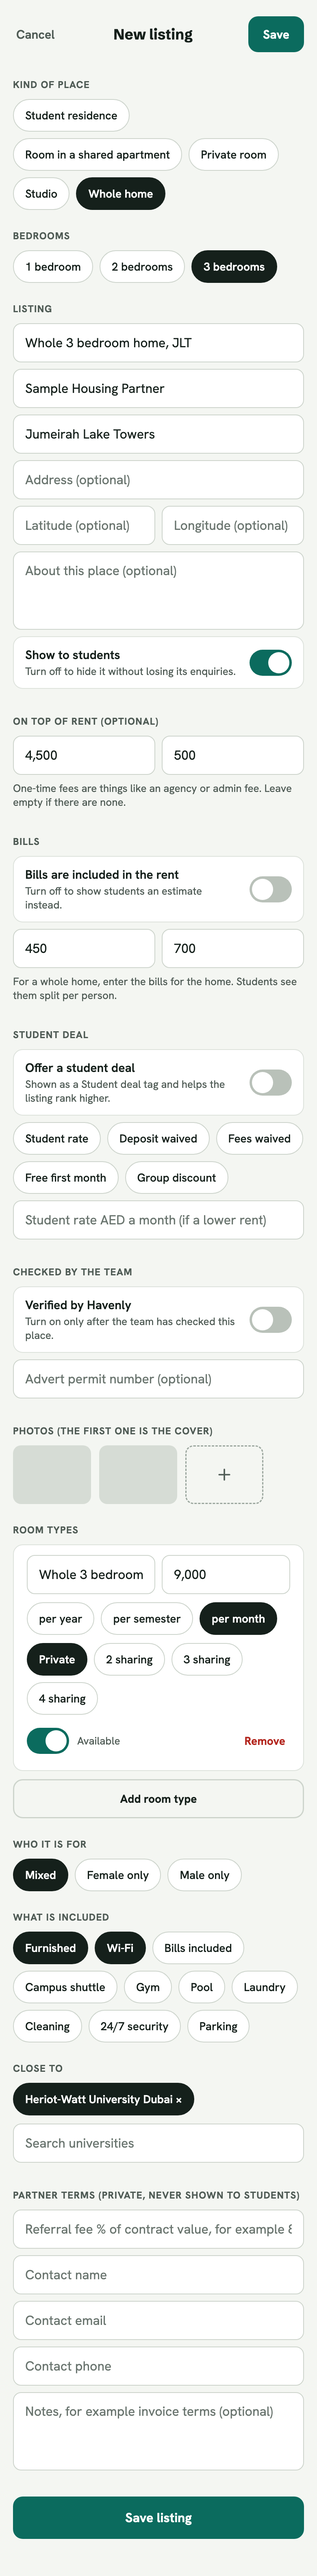
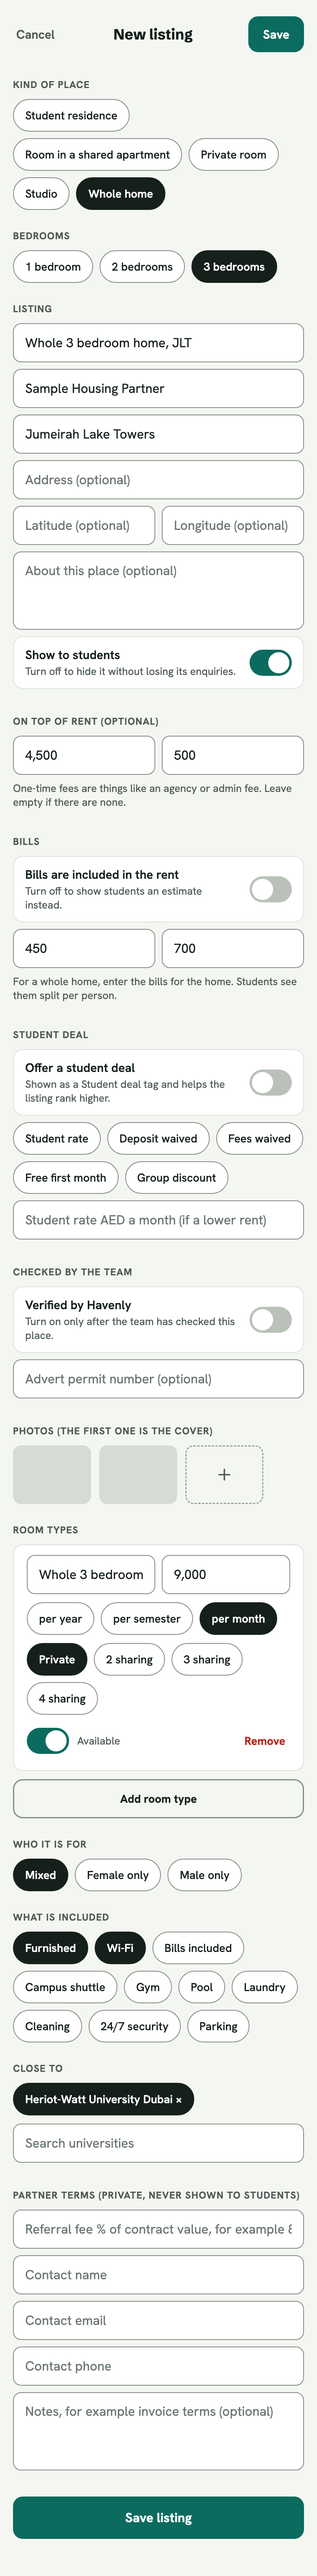
fix: darken field and chip borders so controls meet 3:1 contrast

diff --git a/design/handoff/Housing.dc.html b/design/handoff/Housing.dc.html
@@ -29,21 +29,21 @@ a{color:inherit}
     <div style="position: relative">
       <label for="q" style="position: absolute; width: 1px; height: 1px; overflow: hidden; clip: rect(0 0 0 0)">Search a university or an area</label>
       <svg width="20" height="20" viewBox="0 0 24 24" fill="none" stroke="#59655F" stroke-width="2" stroke-linecap="round" stroke-linejoin="round" aria-hidden="true" style="position: absolute; left: 16px; top: 16px"><circle cx="11" cy="11" r="7"/><path d="m20 20-3.5-3.5"/></svg>
-      <input id="q" type="text" value="Heriot-Watt University Dubai" style="width: 100%; box-sizing: border-box; height: 52px; border: 1px solid #CDD4CC; border-radius: 12px; background: #FFFFFF; padding: 0 16px 0 46px; font-family: inherit; font-size: 16px; color: #15201B">
+      <input id="q" type="text" value="Heriot-Watt University Dubai" style="width: 100%; box-sizing: border-box; height: 52px; border: 1px solid #848E87; border-radius: 12px; background: #FFFFFF; padding: 0 16px 0 46px; font-family: inherit; font-size: 16px; color: #15201B">
     </div>
   </div>
 
   <div style="flex: none; display: flex; gap: 8px; padding: 14px 16px 4px; overflow-x: auto; white-space: nowrap">
-    <button type="button" style="flex: none; height: 40px; padding: 0 14px; border-radius: 999px; border: 1px solid #CDD4CC; background: #FFFFFF; color: #15201B; font-size: 14px; font-weight: 600; display: inline-flex; align-items: center; gap: 6px">
+    <button type="button" style="flex: none; height: 40px; padding: 0 14px; border-radius: 999px; border: 1px solid #848E87; background: #FFFFFF; color: #15201B; font-size: 14px; font-weight: 600; display: inline-flex; align-items: center; gap: 6px">
       <svg width="15" height="15" viewBox="0 0 24 24" fill="none" stroke="currentColor" stroke-width="2.4" stroke-linecap="round" stroke-linejoin="round" aria-hidden="true"><path d="M12 3l7 3v5c0 4.5-3 8-7 10-4-2-7-5.5-7-10V6z"/><path d="m9 12 2 2 4-4"/></svg>
       Verified by Havenly
     </button>
     <button type="button" style="flex: none; height: 40px; padding: 0 14px; border-radius: 999px; border: 1px solid #0B6B5E; background: #0B6B5E; color: #FFFFFF; font-size: 14px; font-weight: 600">Up to AED 3,500</button>
     <button type="button" style="flex: none; height: 40px; padding: 0 14px; border-radius: 999px; border: 1px solid #0B6B5E; background: #0B6B5E; color: #FFFFFF; font-size: 14px; font-weight: 600">Bills included</button>
-    <button type="button" style="flex: none; height: 40px; padding: 0 14px; border-radius: 999px; border: 1px solid #CDD4CC; background: #FFFFFF; color: #15201B; font-size: 14px; font-weight: 500">Kind of place</button>
-    <button type="button" style="flex: none; height: 40px; padding: 0 14px; border-radius: 999px; border: 1px solid #CDD4CC; background: #FFFFFF; color: #15201B; font-size: 14px; font-weight: 500">Bedrooms</button>
-    <button type="button" style="flex: none; height: 40px; padding: 0 14px; border-radius: 999px; border: 1px solid #CDD4CC; background: #FFFFFF; color: #15201B; font-size: 14px; font-weight: 500">Student deal</button>
-    <button type="button" style="flex: none; height: 40px; padding: 0 14px; border-radius: 999px; border: 1px solid #CDD4CC; background: #FFFFFF; color: #15201B; font-size: 14px; font-weight: 500">Who it is for</button>
+    <button type="button" style="flex: none; height: 40px; padding: 0 14px; border-radius: 999px; border: 1px solid #848E87; background: #FFFFFF; color: #15201B; font-size: 14px; font-weight: 500">Kind of place</button>
+    <button type="button" style="flex: none; height: 40px; padding: 0 14px; border-radius: 999px; border: 1px solid #848E87; background: #FFFFFF; color: #15201B; font-size: 14px; font-weight: 500">Bedrooms</button>
+    <button type="button" style="flex: none; height: 40px; padding: 0 14px; border-radius: 999px; border: 1px solid #848E87; background: #FFFFFF; color: #15201B; font-size: 14px; font-weight: 500">Student deal</button>
+    <button type="button" style="flex: none; height: 40px; padding: 0 14px; border-radius: 999px; border: 1px solid #848E87; background: #FFFFFF; color: #15201B; font-size: 14px; font-weight: 500">Who it is for</button>
   </div>
 
   <div style="display: flex; align-items: baseline; justify-content: space-between; padding: 14px 16px 10px">

diff --git a/design/handoff/States.dc.html b/design/handoff/States.dc.html
@@ -16,16 +16,16 @@ button:focus-visible,input:focus-visible{outline:2px solid #0B6B5E;outline-offse
 h2{margin:0;font-family:'Schibsted Grotesk',sans-serif;font-weight:700;font-size:22px;letter-spacing:-0.01em}
 .grid{display:grid;grid-template-columns:repeat(3,390px);gap:12px 60px;align-items:stretch}
 .cap{font-size:12px;font-weight:700;letter-spacing:0.06em;text-transform:uppercase;color:#4F5B55;margin-bottom:6px}
-.p{background:#F4F6F2;border:1px solid #CDD4CC;border-radius:14px;padding:18px 16px;box-sizing:border-box;display:flex;flex-direction:column;gap:12px;min-height:230px}
+.p{background:#F4F6F2;border:1px solid #848E87;border-radius:14px;padding:18px 16px;box-sizing:border-box;display:flex;flex-direction:column;gap:12px;min-height:230px}
 .col{display:flex;flex-direction:column}
 .btn{height:48px;border:0;border-radius:12px;background:#0B6B5E;color:#FFFFFF;font-size:15px;font-weight:700;padding:0 20px}
-.btn2{height:48px;border:1px solid #CDD4CC;border-radius:12px;background:#FFFFFF;color:#15201B;font-size:15px;font-weight:600;padding:0 20px}
+.btn2{height:48px;border:1px solid #848E87;border-radius:12px;background:#FFFFFF;color:#15201B;font-size:15px;font-weight:600;padding:0 20px}
 .t{font-size:18px;font-weight:700;line-height:1.25;font-family:'Schibsted Grotesk',sans-serif}
 .s{font-size:14px;line-height:1.45;color:#2B3832}
 .sk{background:#D6DCD5;border-radius:8px}
 .card{background:#FFFFFF;border:1px solid #DDE2DC;border-radius:14px;padding:10px;display:flex;flex-direction:column;gap:8px}
 .err{background:#FCE8E6;border:1px solid #E7B5B0;color:#8E1B12;border-radius:10px;padding:10px 12px;font-size:14px;line-height:1.35}
-.f{height:48px;box-sizing:border-box;border:1px solid #CDD4CC;border-radius:10px;background:#FFFFFF;padding:0 14px;font-family:inherit;font-size:15px;color:#15201B;width:100%}
+.f{height:48px;box-sizing:border-box;border:1px solid #848E87;border-radius:10px;background:#FFFFFF;padding:0 14px;font-family:inherit;font-size:15px;color:#15201B;width:100%}
 .f.bad{border-color:#A3231A;border-width:2px}
 .ic{width:44px;height:44px;border-radius:999px;background:#E3E8E2;display:flex;align-items:center;justify-content:center}
 .rw{display:flex;justify-content:space-between;gap:10px;font-size:14px;font-variant-numeric:tabular-nums}
@@ -72,7 +72,7 @@ h2{margin:0;font-family:'Schibsted Grotesk',sans-serif;font-weight:700;font-size
     </div>
     <div class="col"><div class="cap">Unavailable: full or no longer listed</div>
       <div class="p" style="align-items: flex-start">
-        <div class="err" style="background: #EEF1EC; border-color: #CDD4CC; color: #15201B; width: 100%; box-sizing: border-box">This place is full or no longer listed.</div>
+        <div class="err" style="background: #EEF1EC; border-color: #848E87; color: #15201B; width: 100%; box-sizing: border-box">This place is full or no longer listed.</div>
         <div class="s">You can still see its details below, but you cannot send an enquiry.</div>
         <button type="button" class="btn2" style="width: 100%">See similar places near your campus</button>
       </div>
@@ -131,7 +131,7 @@ h2{margin:0;font-family:'Schibsted Grotesk',sans-serif;font-weight:700;font-size
     </div>
     <div class="col"><div class="cap">Limit reached: a 4th is refused</div>
       <div class="p">
-        <div class="err" style="background: #EEF1EC; border-color: #CDD4CC; color: #15201B">You can compare up to 3 places. Remove one to add this one.</div>
+        <div class="err" style="background: #EEF1EC; border-color: #848E87; color: #15201B">You can compare up to 3 places. Remove one to add this one.</div>
         <div style="display: grid; grid-template-columns: repeat(3, 1fr); gap: 8px"><div class="sk" style="height: 64px"></div><div class="sk" style="height: 64px"></div><div class="sk" style="height: 64px"></div></div>
         <button type="button" class="btn2">Choose one to remove</button>
       </div>

diff --git a/design/handoff/ResidenceDetail.dc.html b/design/handoff/ResidenceDetail.dc.html
@@ -86,7 +86,7 @@ a{color:inherit}
       </div>
     </section>
 
-    <button type="button" style="height: 48px; border-radius: 12px; border: 1px solid #CDD4CC; background: #FFFFFF; color: #15201B; font-size: 15px; font-weight: 600; display: inline-flex; align-items: center; justify-content: center; gap: 8px">
+    <button type="button" style="height: 48px; border-radius: 12px; border: 1px solid #848E87; background: #FFFFFF; color: #15201B; font-size: 15px; font-weight: 600; display: inline-flex; align-items: center; justify-content: center; gap: 8px">
       <svg width="18" height="18" viewBox="0 0 24 24" fill="none" stroke="currentColor" stroke-width="2.2" stroke-linecap="round" aria-hidden="true"><path d="M12 5v14M5 12h14"/></svg>
       Add to compare
     </button>
@@ -113,11 +113,11 @@ a{color:inherit}
         <div style="display: flex; justify-content: space-between"><span style="color: #4F5B55">Flatmates</span><span style="font-weight: 600">1 other student</span></div>
       </div>
       <div style="display: flex; flex-wrap: wrap; gap: 8px">
-        <span style="height: 34px; padding: 0 12px; display: inline-flex; align-items: center; border-radius: 999px; border: 1px solid #CDD4CC; background: #FFFFFF; font-size: 14px">Furnished</span>
-        <span style="height: 34px; padding: 0 12px; display: inline-flex; align-items: center; border-radius: 999px; border: 1px solid #CDD4CC; background: #FFFFFF; font-size: 14px">Wi-Fi</span>
-        <span style="height: 34px; padding: 0 12px; display: inline-flex; align-items: center; border-radius: 999px; border: 1px solid #CDD4CC; background: #FFFFFF; font-size: 14px">Laundry</span>
-        <span style="height: 34px; padding: 0 12px; display: inline-flex; align-items: center; border-radius: 999px; border: 1px solid #CDD4CC; background: #FFFFFF; font-size: 14px">Cleaning</span>
-        <span style="height: 34px; padding: 0 12px; display: inline-flex; align-items: center; border-radius: 999px; border: 1px solid #CDD4CC; background: #FFFFFF; font-size: 14px">24/7 security</span>
+        <span style="height: 34px; padding: 0 12px; display: inline-flex; align-items: center; border-radius: 999px; border: 1px solid #848E87; background: #FFFFFF; font-size: 14px">Furnished</span>
+        <span style="height: 34px; padding: 0 12px; display: inline-flex; align-items: center; border-radius: 999px; border: 1px solid #848E87; background: #FFFFFF; font-size: 14px">Wi-Fi</span>
+        <span style="height: 34px; padding: 0 12px; display: inline-flex; align-items: center; border-radius: 999px; border: 1px solid #848E87; background: #FFFFFF; font-size: 14px">Laundry</span>
+        <span style="height: 34px; padding: 0 12px; display: inline-flex; align-items: center; border-radius: 999px; border: 1px solid #848E87; background: #FFFFFF; font-size: 14px">Cleaning</span>
+        <span style="height: 34px; padding: 0 12px; display: inline-flex; align-items: center; border-radius: 999px; border: 1px solid #848E87; background: #FFFFFF; font-size: 14px">24/7 security</span>
       </div>
       <p style="margin: 4px 0 0; font-size: 15px; line-height: 1.5; color: #2B3832">A furnished bedroom in a two bedroom apartment, shared with one other student. Walking distance to the metro. Contracts are signed with the provider; Havenly keeps the listing up to date.</p>
     </section>

diff --git a/design/handoff/Compare.dc.html b/design/handoff/Compare.dc.html
@@ -23,7 +23,7 @@ button:focus-visible{outline:2px solid #0B6B5E;outline-offset:2px}
 <div style="width: 390px; min-height: 1000px; box-sizing: border-box; background: #F4F6F2; display: flex; flex-direction: column">
 
   <div style="display: flex; align-items: center; gap: 12px; padding: 16px 16px 8px">
-    <button type="button" aria-label="Back" style="flex: none; width: 44px; height: 44px; border-radius: 999px; border: 1px solid #CDD4CC; background: #FFFFFF; display: flex; align-items: center; justify-content: center">
+    <button type="button" aria-label="Back" style="flex: none; width: 44px; height: 44px; border-radius: 999px; border: 1px solid #848E87; background: #FFFFFF; display: flex; align-items: center; justify-content: center">
       <svg width="22" height="22" viewBox="0 0 24 24" fill="none" stroke="#15201B" stroke-width="2" stroke-linecap="round" stroke-linejoin="round" aria-hidden="true"><path d="M19 12H5M11 6l-6 6 6 6"/></svg>
     </button>
     <div style="display: flex; flex-direction: column">
@@ -43,13 +43,13 @@ button:focus-visible{outline:2px solid #0B6B5E;outline-offset:2px}
     <div style="display: flex; flex-direction: column; gap: 6px">
       <div style="height: 84px; border-radius: 10px; background: #D6DCD5"></div>
       <span style="font-size: 14px; font-weight: 600; line-height: 1.25">Studio, Dubai Silicon Oasis</span>
-      <button type="button" aria-pressed="false" style="height: 44px; border-radius: 10px; border: 1px solid #CDD4CC; background: #FFFFFF; color: #15201B; font-size: 14px; font-weight: 600">Choose</button>
+      <button type="button" aria-pressed="false" style="height: 44px; border-radius: 10px; border: 1px solid #848E87; background: #FFFFFF; color: #15201B; font-size: 14px; font-weight: 600">Choose</button>
       <button type="button" style="height: 44px; border: 0; background: none; font-size: 13px; color: #4F5B55; text-decoration: underline; text-underline-offset: 3px">Remove</button>
     </div>
     <div style="display: flex; flex-direction: column; gap: 6px">
       <div style="height: 84px; border-radius: 10px; background: #D6DCD5"></div>
       <span style="font-size: 14px; font-weight: 600; line-height: 1.25">Whole 3 bed home, JLT</span>
-      <button type="button" aria-pressed="false" style="height: 44px; border-radius: 10px; border: 1px solid #CDD4CC; background: #FFFFFF; color: #15201B; font-size: 14px; font-weight: 600">Choose</button>
+      <button type="button" aria-pressed="false" style="height: 44px; border-radius: 10px; border: 1px solid #848E87; background: #FFFFFF; color: #15201B; font-size: 14px; font-weight: 600">Choose</button>
       <button type="button" style="height: 44px; border: 0; background: none; font-size: 13px; color: #4F5B55; text-decoration: underline; text-underline-offset: 3px">Remove</button>
     </div>
   </div>

diff --git a/design/handoff/SignInToContinue.dc.html b/design/handoff/SignInToContinue.dc.html
@@ -18,7 +18,7 @@ a{color:#15201B}
 </helmet>
 <div style="width: 390px; height: 800px; box-sizing: border-box; background: #78807A; display: flex; flex-direction: column; justify-content: flex-end">
   <div style="background: #FFFFFF; border-radius: 22px 22px 0 0; padding: 10px 16px 20px; display: flex; flex-direction: column; gap: 18px; height: 690px; box-sizing: border-box">
-    <div style="width: 40px; height: 4px; border-radius: 4px; background: #CDD4CC; align-self: center"></div>
+    <div style="width: 40px; height: 4px; border-radius: 4px; background: #848E87; align-self: center"></div>
 
     <div style="display: flex; align-items: flex-start; justify-content: space-between; gap: 12px">
       <h1 style="margin: 0; font-family: 'Schibsted Grotesk', sans-serif; font-weight: 700; font-size: 26px; line-height: 1.12; letter-spacing: -0.02em; text-wrap: balance">Make a free account to send your enquiry</h1>
@@ -31,14 +31,14 @@ a{color:#15201B}
     <div style="display: flex; flex-direction: column; gap: 14px">
       <div style="display: flex; flex-direction: column; gap: 6px">
         <label for="email" style="font-size: 14px; font-weight: 600">Email</label>
-        <input id="email" type="email" value="layla@example.com" style="height: 52px; box-sizing: border-box; border: 1px solid #CDD4CC; border-radius: 12px; background: #FFFFFF; padding: 0 14px; font-family: inherit; font-size: 16px; color: #15201B">
+        <input id="email" type="email" value="layla@example.com" style="height: 52px; box-sizing: border-box; border: 1px solid #848E87; border-radius: 12px; background: #FFFFFF; padding: 0 14px; font-family: inherit; font-size: 16px; color: #15201B">
       </div>
       <div style="display: flex; flex-direction: column; gap: 6px">
         <div style="display: flex; align-items: center; justify-content: space-between">
           <label for="pw" style="font-size: 14px; font-weight: 600">Password</label>
           <button type="button" style="height: 44px; padding: 0 4px; border: 0; background: none; font-size: 14px; font-weight: 600; color: #15201B">Show</button>
         </div>
-        <input id="pw" type="password" value="Sample-Pass-1" style="height: 52px; box-sizing: border-box; border: 1px solid #CDD4CC; border-radius: 12px; background: #FFFFFF; padding: 0 14px; font-family: inherit; font-size: 16px; color: #15201B">
+        <input id="pw" type="password" value="Sample-Pass-1" style="height: 52px; box-sizing: border-box; border: 1px solid #848E87; border-radius: 12px; background: #FFFFFF; padding: 0 14px; font-family: inherit; font-size: 16px; color: #15201B">
         <span style="font-size: 13px; color: #4F5B55">At least 8 characters, with a capital letter, a small letter and a number.</span>
       </div>
     </div>

diff --git a/design/handoff/SplitRent.dc.html b/design/handoff/SplitRent.dc.html
@@ -17,7 +17,7 @@ button:focus-visible{outline:2px solid #0B6B5E;outline-offset:2px}
 </helmet>
 <div style="width: 390px; min-height: 900px; box-sizing: border-box; background: #78807A; display: flex; flex-direction: column; justify-content: flex-end">
   <div style="background: #FFFFFF; border-radius: 22px 22px 0 0; padding: 10px 16px 16px; display: flex; flex-direction: column; gap: 18px; min-height: 800px; box-sizing: border-box">
-    <div style="width: 40px; height: 4px; border-radius: 4px; background: #CDD4CC; align-self: center"></div>
+    <div style="width: 40px; height: 4px; border-radius: 4px; background: #848E87; align-self: center"></div>
 
     <div style="display: flex; align-items: flex-start; justify-content: space-between; gap: 12px">
       <div style="display: flex; flex-direction: column; gap: 4px">
@@ -43,11 +43,11 @@ button:focus-visible{outline:2px solid #0B6B5E;outline-offset:2px}
         <span style="font-size: 13px; color: #4F5B55">A 3 bedroom home usually suits 3</span>
       </div>
       <div role="group" aria-labelledby="people" style="display: flex; align-items: center; gap: 4px">
-        <button type="button" aria-label="One fewer person" style="width: 44px; height: 44px; border-radius: 999px; border: 1px solid #CDD4CC; background: #FFFFFF; display: flex; align-items: center; justify-content: center">
+        <button type="button" aria-label="One fewer person" style="width: 44px; height: 44px; border-radius: 999px; border: 1px solid #848E87; background: #FFFFFF; display: flex; align-items: center; justify-content: center">
           <svg width="18" height="18" viewBox="0 0 24 24" fill="none" stroke="#15201B" stroke-width="2.2" stroke-linecap="round" aria-hidden="true"><path d="M5 12h14"/></svg>
         </button>
         <span style="min-width: 36px; text-align: center; font-family: 'Schibsted Grotesk', sans-serif; font-weight: 700; font-size: 24px; font-variant-numeric: tabular-nums">3</span>
-        <button type="button" aria-label="One more person" style="width: 44px; height: 44px; border-radius: 999px; border: 1px solid #CDD4CC; background: #FFFFFF; display: flex; align-items: center; justify-content: center">
+        <button type="button" aria-label="One more person" style="width: 44px; height: 44px; border-radius: 999px; border: 1px solid #848E87; background: #FFFFFF; display: flex; align-items: center; justify-content: center">
           <svg width="18" height="18" viewBox="0 0 24 24" fill="none" stroke="#15201B" stroke-width="2.2" stroke-linecap="round" aria-hidden="true"><path d="M12 5v14M5 12h14"/></svg>
         </button>
       </div>

diff --git a/design/handoff/EditResidence.dc.html b/design/handoff/EditResidence.dc.html
@@ -14,12 +14,12 @@ body{margin:0;background:#F4F6F2;font-family:'Hanken Grotesk',system-ui,sans-ser
 button{font-family:inherit;cursor:pointer}
 button:focus-visible,input:focus-visible,textarea:focus-visible{outline:2px solid #0B6B5E;outline-offset:2px}
 .sec{font-size:12px;font-weight:700;letter-spacing:0.06em;text-transform:uppercase;color:#4F5B55;padding:24px 16px 10px}
-.f{display:block;width:calc(100% - 32px);margin:0 16px 8px;height:48px;box-sizing:border-box;border:1px solid #CDD4CC;border-radius:10px;background:#FFFFFF;padding:0 14px;font-family:inherit;font-size:16px;color:#15201B}
+.f{display:block;width:calc(100% - 32px);margin:0 16px 8px;height:48px;box-sizing:border-box;border:1px solid #848E87;border-radius:10px;background:#FFFFFF;padding:0 14px;font-family:inherit;font-size:16px;color:#15201B}
 .f::placeholder{color:#6A756F}
 .two{display:grid;grid-template-columns:repeat(2,minmax(0,1fr));gap:8px;padding:0 16px 8px}
 .two .f{width:100%;margin:0}
 .chips{display:flex;flex-wrap:wrap;gap:8px;padding:0 16px}
-.chip{height:40px;padding:0 14px;border-radius:999px;border:1px solid #CDD4CC;background:#FFFFFF;color:#15201B;font-size:14px;font-weight:500}
+.chip{height:40px;padding:0 14px;border-radius:999px;border:1px solid #848E87;background:#FFFFFF;color:#15201B;font-size:14px;font-weight:500}
 .chip.on{background:#15201B;border-color:#15201B;color:#FFFFFF;font-weight:600}
 .sw{display:flex;align-items:center;gap:12px;margin:0 16px 8px;padding:12px 14px;background:#FFFFFF;border:1px solid #DDE2DC;border-radius:12px}
 .sw .t{flex:1;display:flex;flex-direction:column;gap:2px;font-size:15px;font-weight:600}
@@ -143,7 +143,7 @@ button:focus-visible,input:focus-visible,textarea:focus-visible{outline:2px soli
       <button type="button" style="height: 44px; border: 0; background: none; font-size: 14px; font-weight: 700; color: #B3261E">Remove</button>
     </div>
   </div>
-  <div style="padding: 0 16px"><button type="button" style="width: 100%; height: 48px; border-radius: 12px; border: 1.5px solid #CDD4CC; background: none; font-size: 14px; font-weight: 700; color: #15201B">Add room type</button></div>
+  <div style="padding: 0 16px"><button type="button" style="width: 100%; height: 48px; border-radius: 12px; border: 1.5px solid #848E87; background: none; font-size: 14px; font-weight: 700; color: #15201B">Add room type</button></div>
 
   <div class="sec">Who it is for</div>
   <div class="chips">

diff --git a/design/handoff/README.md b/design/handoff/README.md
@@ -36,7 +36,7 @@ Colour
 | placeholder | `#6A756F` | input placeholder |
 | line-card | `#DDE2DC` | card and tab-bar borders |
 | line-divider | `#E4E8E2` | rows inside a card |
-| line-field | `#CDD4CC` | field, chip and outline-button borders |
+| line-field | `#848E87` | field, chip and outline-button borders (3.4:1 on white, so the control edge is visible) |
 | primary | `#0B6B5E` | the one main button, active filter chip, active tab |
 | primary-tint | `#EAF3F0` (panel), `#DDF0EC` (tag) with text `#0A5B50` | "Bills included" tag, each-person-pays panel |
 | deal | background `#FBE3C9`, text `#8A3D00` | Student deal tag only |
